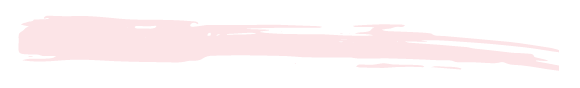
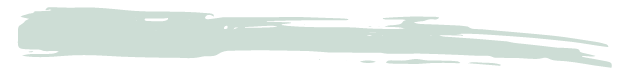
Changed accent color and updated brush stroke.

diff --git a/style.css b/style.css
@@ -98,7 +98,8 @@ font-size: 125px;
 
 .aboutMe{
 /*  background-color: #CAEBF2;*/
-background-color:#FDE4E7;
+background-color:#ccddd5;
+opacity: 50%;
   height: 100%;
   padding: 5em 3em;
   justify-content: center; /* align horizontal */
@@ -197,7 +198,7 @@ background-color:#FDE4E7;
   }
 
   .education hr{
-   border-color:#FDE4E7;
+   border-color:#ccddd5;
     border-width: 2px;
   }
 
